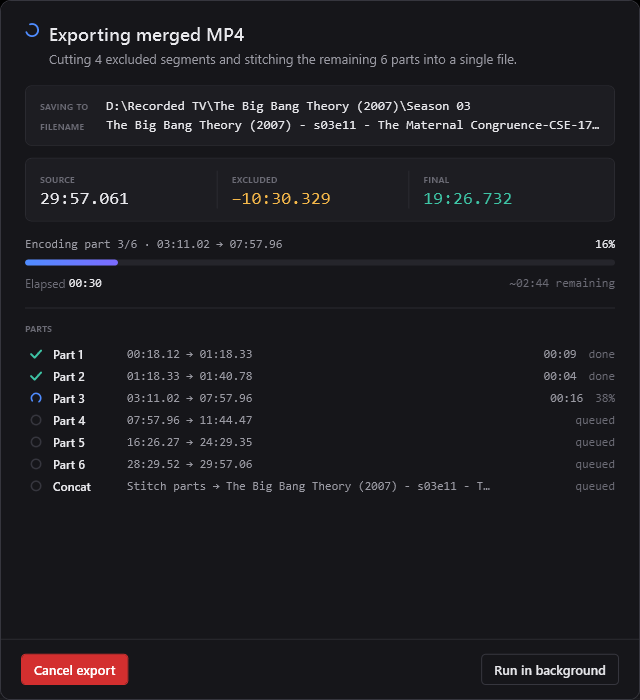
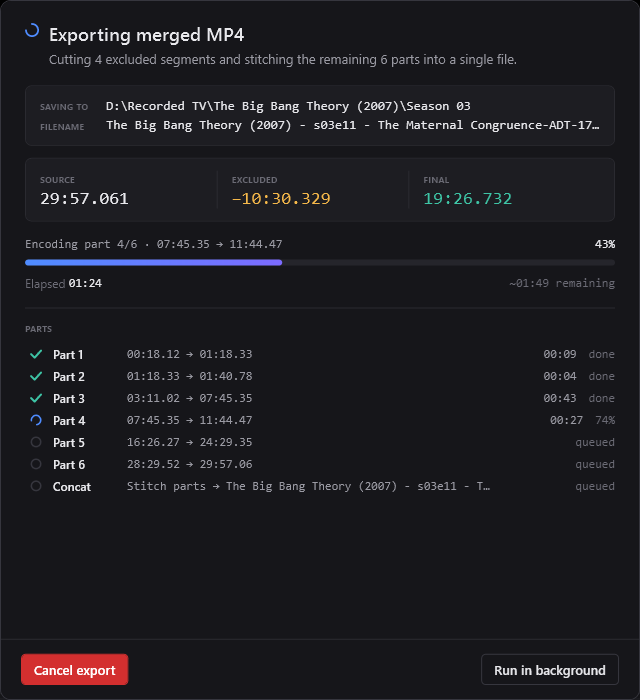
Refresh screenshots and align download accent with site palette
- Update timeline-hero, export-progress, and refined-marker screenshots
- Drop the green/teal accent on the download block so the eyebrow,
  version chip, and links match the blue used elsewhere on the page
- Remove the dead Tweaks-panel CSS and the swappable data-accent
  variants it used to drive

diff --git a/styles.css b/styles.css
@@ -1061,29 +1061,11 @@ section { position: relative; }
 }
 
 /* DOWNLOAD */
-.download { padding: 100px 0;
-  /* swappable accent (default: teal, current look). Tweaks panel cycles this. */
-  --dl-accent:   #3FD9C8;
-  --dl-glow-a:   rgba(63,217,200,0.10);
-  --dl-glow-b:   rgba(139,92,246,0.10);
-}
-.download[data-accent="blue"] {
-  --dl-accent:   #6BA0FF;
-  --dl-glow-a:   rgba(107,160,255,0.16);
-  --dl-glow-b:   rgba(107,160,255,0.06);
-}
-.download[data-accent="amber"] {
-  --dl-accent:   #F5A524;
-  --dl-glow-a:   rgba(245,165,36,0.14);
-  --dl-glow-b:   rgba(139,92,246,0.07);
-}
-.download .section-eyebrow { color: var(--dl-accent); }
-.download .download-version { color: var(--dl-accent); }
-.download .link { color: var(--dl-accent); }
+.download { padding: 100px 0; }
 .download-card {
   background:
-    radial-gradient(800px 300px at 100% 0%, var(--dl-glow-b), transparent 60%),
-    radial-gradient(600px 300px at 0% 100%, var(--dl-glow-a), transparent 60%),
+    radial-gradient(800px 300px at 100% 0%, rgba(107,160,255,0.06), transparent 60%),
+    radial-gradient(600px 300px at 0% 100%, rgba(107,160,255,0.16), transparent 60%),
     linear-gradient(180deg, var(--surface) 0%, var(--bg-elev) 100%);
   border: 1px solid var(--hairline-2);
   border-radius: 18px;
@@ -1101,7 +1083,7 @@ section { position: relative; }
   margin: 14px 0 8px;
 }
 .download-version {
-  color: var(--dl-accent);
+  color: var(--blue);
   font-size: 0.7em;
   margin-left: 8px;
   vertical-align: middle;
@@ -1186,107 +1168,4 @@ section { position: relative; }
 @media (prefers-reduced-motion: reduce) {
   .progress-fill { animation: none; background: var(--blue); }
   .part-spinner { animation: none; }
-}
-
-/* ============================================================
-   TWEAKS PANEL
-   ============================================================ */
-.tweaks {
-  position: fixed;
-  right: 20px;
-  bottom: 20px;
-  width: 288px;
-  z-index: 80;
-  background: linear-gradient(180deg, #16181D 0%, #101216 100%);
-  border: 1px solid var(--hairline-2);
-  border-radius: 12px;
-  box-shadow:
-    0 1px 0 rgba(255,255,255,0.04) inset,
-    0 24px 48px -20px rgba(0,0,0,0.8);
-  font-family: var(--font-sans);
-  opacity: 0;
-  transform: translateY(10px);
-  transition: opacity .18s ease, transform .18s ease;
-}
-.tweaks.is-open { opacity: 1; transform: translateY(0); }
-.tweaks[hidden] { display: none; }
-
-.tweaks-head {
-  display: flex;
-  align-items: center;
-  justify-content: space-between;
-  padding: 12px 14px;
-  border-bottom: 1px solid var(--hairline);
-}
-.tweaks-title {
-  font-size: 12px;
-  font-family: var(--font-mono);
-  letter-spacing: 0.12em;
-  text-transform: uppercase;
-  color: var(--fg-mute);
-}
-.tweaks-close {
-  width: 22px; height: 22px;
-  display: inline-flex;
-  align-items: center; justify-content: center;
-  background: transparent;
-  border: 0;
-  color: var(--fg-dim);
-  cursor: pointer;
-  border-radius: 5px;
-  transition: background .15s, color .15s;
-}
-.tweaks-close:hover { background: rgba(255,255,255,0.05); color: var(--fg); }
-
-.tweaks-section { padding: 14px; }
-.tweaks-section-title {
-  font-size: 13px;
-  font-weight: 500;
-  letter-spacing: -0.01em;
-  margin: 0 0 4px;
-  color: var(--fg);
-}
-.tweaks-section-sub {
-  font-size: 12px;
-  color: var(--fg-dim);
-  margin: 0 0 12px;
-  line-height: 1.4;
-}
-
-.tweaks-swatches {
-  display: flex;
-  flex-direction: column;
-  gap: 6px;
-}
-.tweaks-swatch {
-  display: flex;
-  align-items: center;
-  gap: 10px;
-  padding: 8px 10px;
-  background: rgba(255,255,255,0.02);
-  border: 1px solid var(--hairline);
-  border-radius: 8px;
-  color: var(--fg);
-  cursor: pointer;
-  font-family: inherit;
-  font-size: 13px;
-  text-align: left;
-  transition: border-color .15s, background .15s;
-}
-.tweaks-swatch:hover { border-color: var(--hairline-3); background: rgba(255,255,255,0.04); }
-.tweaks-swatch.is-active {
-  border-color: rgba(107,160,255,0.55);
-  background: rgba(107,160,255,0.07);
-}
-.tweaks-swatch-color {
-  width: 18px; height: 18px;
-  border-radius: 5px;
-  flex-shrink: 0;
-  box-shadow: 0 0 0 1px rgba(255,255,255,0.08) inset;
-}
-.tweaks-swatch-label { flex: 1; }
-.tweaks-swatch-note {
-  font-size: 11px;
-  color: var(--fg-dim);
-  margin-left: 4px;
 }

diff --git a/index.html b/index.html
@@ -344,7 +344,7 @@
   </section>
 
   <!-- DOWNLOAD -->
-  <section class="download" id="download" data-accent="teal">
+  <section class="download" id="download">
     <div class="container">
       <div class="download-card">
         <div class="download-left">
